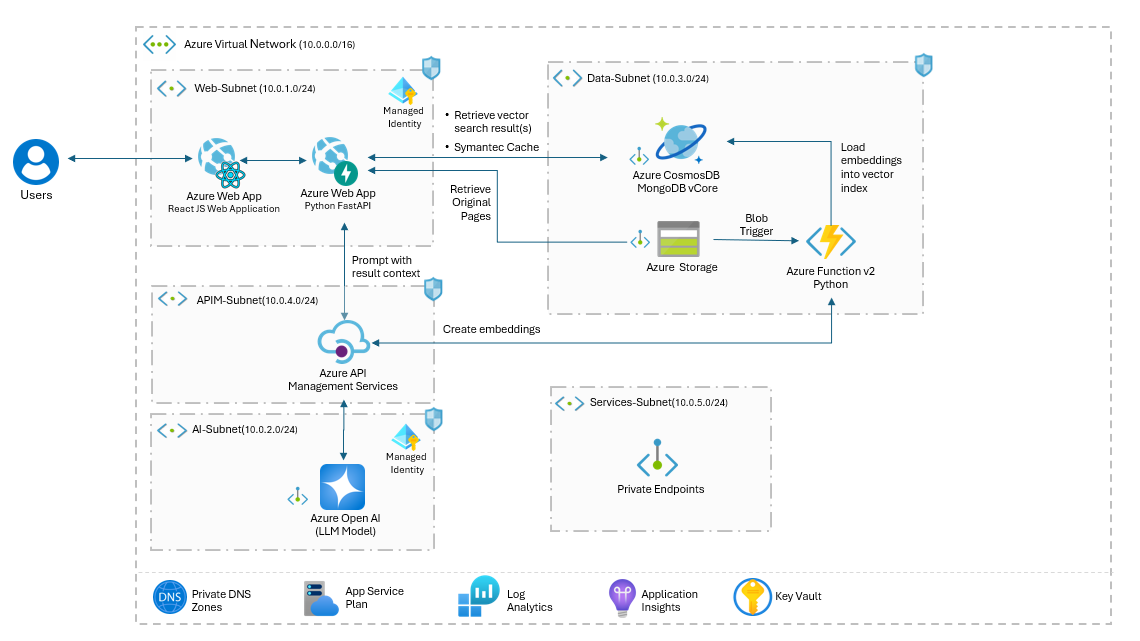
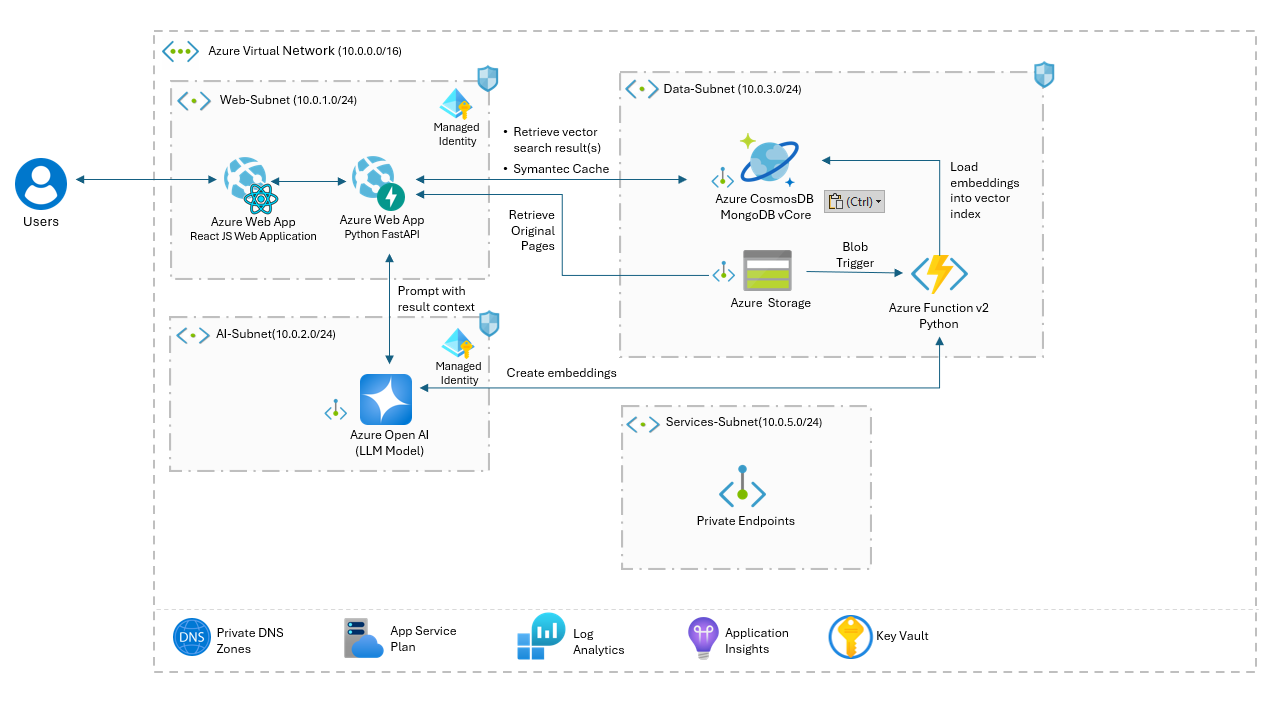
Architecture Clean-up

diff --git a/README.md b/README.md
@@ -138,7 +138,7 @@ After completing testing, ensure to delete any unused Azure resources or remove 
 
 ### Resource Purge for Redeployment
 
-If you plan to delete and redeploy this solution, you may need to manually purge specific Azure resources, including **Azure API Management (APIM)** and **Azure OpenAI** services, as they may retain certain configurations even after deletion.
+If you plan to delete and redeploy this solution, you may need to manually purge **Azure OpenAI** service.
 
 #### Azure OpenAI Purge
 
@@ -152,14 +152,6 @@ To permanently delete an Azure OpenAI or other Azure AI service, follow [these s
 
 3. **Purge the Resource**:  
    Click **Purge** to permanently delete the selected resource(s). Be aware that purging is irreversible and removes all associated configurations and data for the resource.
-
-#### APIM Purge
-
-To manually delete an Azure API Management (APIM) service, use the following command, substituting your **Subscription ID**, **Region**, and **APIM Resource Name**:
-
-```bash
-az rest --method delete --url https://management.azure.com/subscriptions/[Subscription ID]/providers/Microsoft.ApiManagement/locations/[Region]/deletedservices/[APIM Resource Name]?api-version=2021-08-01
-```
 
 ## License
 This project is licensed under the [MIT License](MIT.md), granting permission for commercial and non-commercial use with proper attribution.
